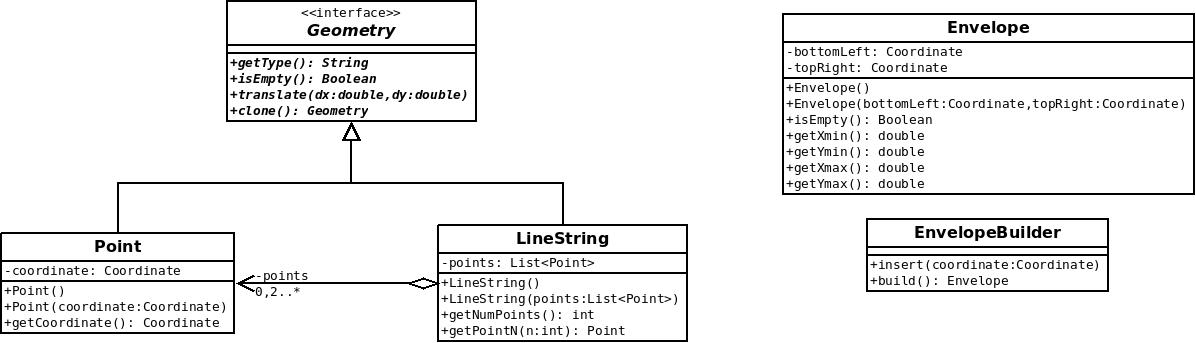
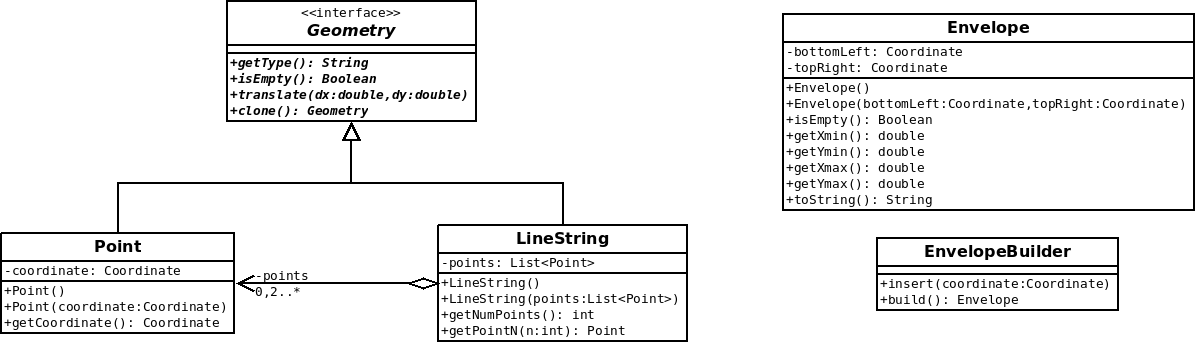
chore(tp-geometry): ajout toString sur Envelope pour simplifier les tests et simplification des schémas

Changed region(s): [[0.6497, 0.5539, 1.0, 0.9038]]

diff --git a/docs/annexe/tp-geometry/index.html b/docs/annexe/tp-geometry/index.html
@@ -186,7 +186,7 @@ copy.translate(10.0,10.0);
 <p>Nous souhaitons calculer l&#39;emprise d&#39;une géométrie (la bbox). La logique de calcul de min/max en oeuvre étant assez complexe, nous ne souhaitons pas l&#39;implémenter dans les classes <code>Point</code> et <code>LineString</code>.</p>
 <p>Nous allons donc procéder comme suit :</p>
 <ul>
-<li>Ajouter une classe <code>Envelope</code> représentant une emprise rectangulaire de la géométrie</li>
+<li>Ajouter une classe <code>Envelope</code> représentant une emprise rectangulaire de la géométrie avec le format suivant pour <code>toString()</code> : <code>xMin,yMin,xMax,yMax</code> (c&#39;est celui de WMS)</li>
 <li>Ajouter une classe utilitaire <code>EnvelopeBuilder</code> qui aura pour rôle de construire cette emprise</li>
 </ul>
 <p><img src="schema/mcd-06.png" alt="Schéma UML"></p>

diff --git a/src/annexe/tp-geometry/index.md b/src/annexe/tp-geometry/index.md
@@ -142,7 +142,7 @@ Nous souhaitons calculer l'emprise d'une géométrie (la bbox). La logique de ca
 
 Nous allons donc procéder comme suit :
 
-* Ajouter une classe `Envelope` représentant une emprise rectangulaire de la géométrie
+* Ajouter une classe `Envelope` représentant une emprise rectangulaire de la géométrie avec le format suivant pour `toString()` : `xMin,yMin,xMax,yMax` (c'est celui de WMS)
 * Ajouter une classe utilitaire `EnvelopeBuilder` qui aura pour rôle de construire cette emprise
 
 ![Schéma UML](schema/mcd-06.png)
